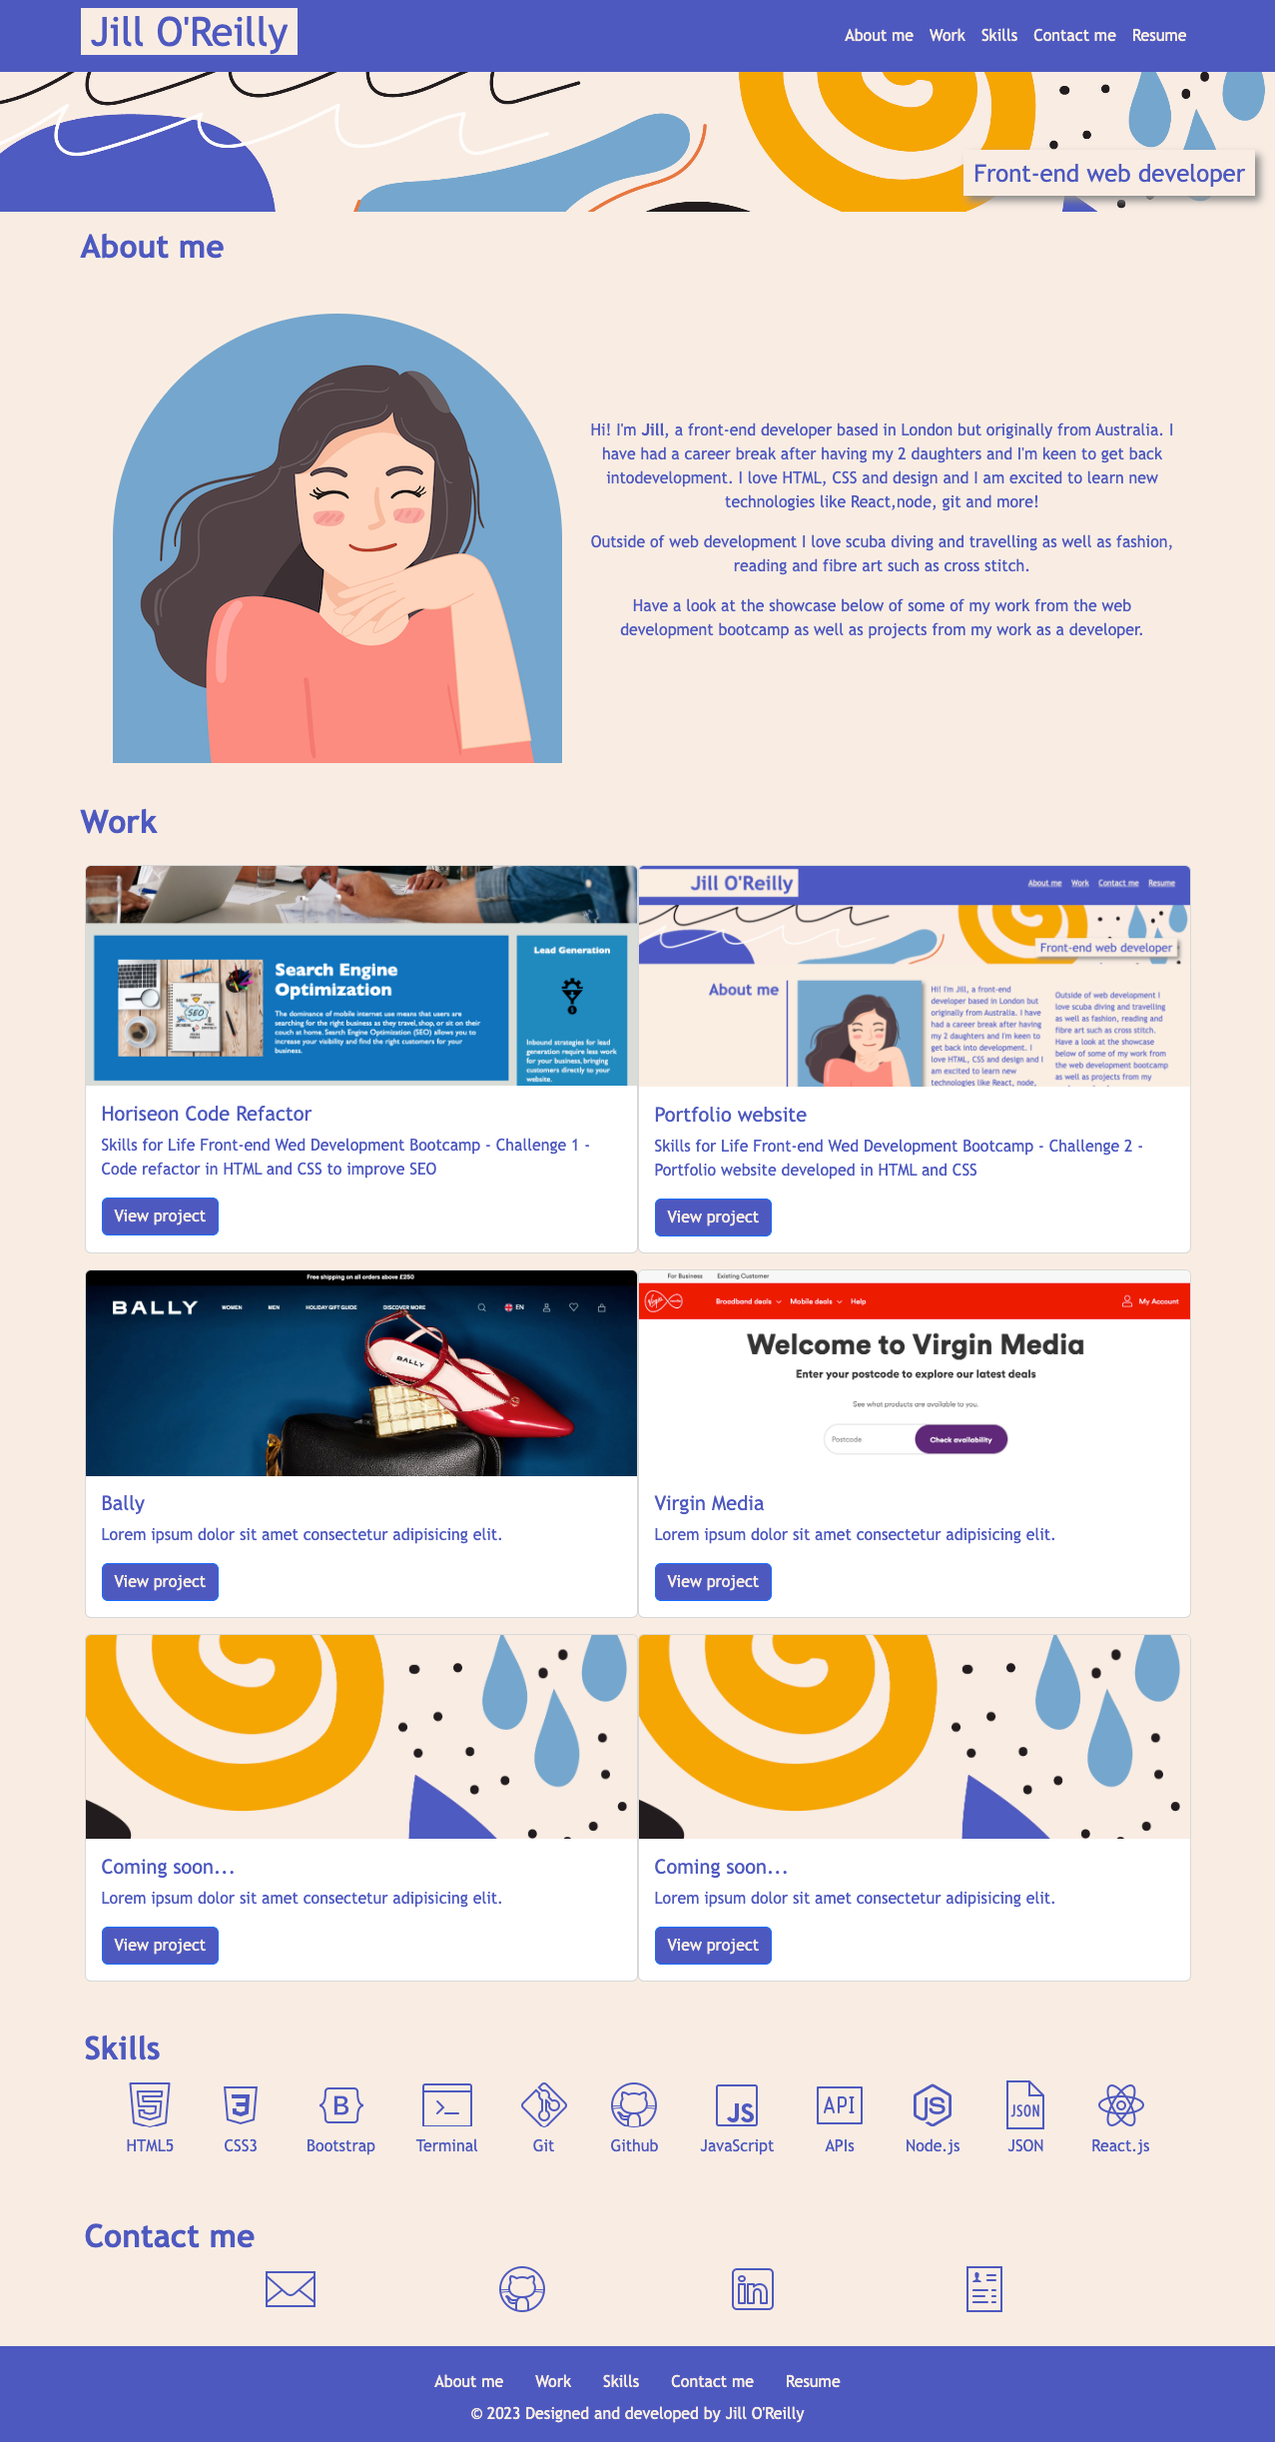
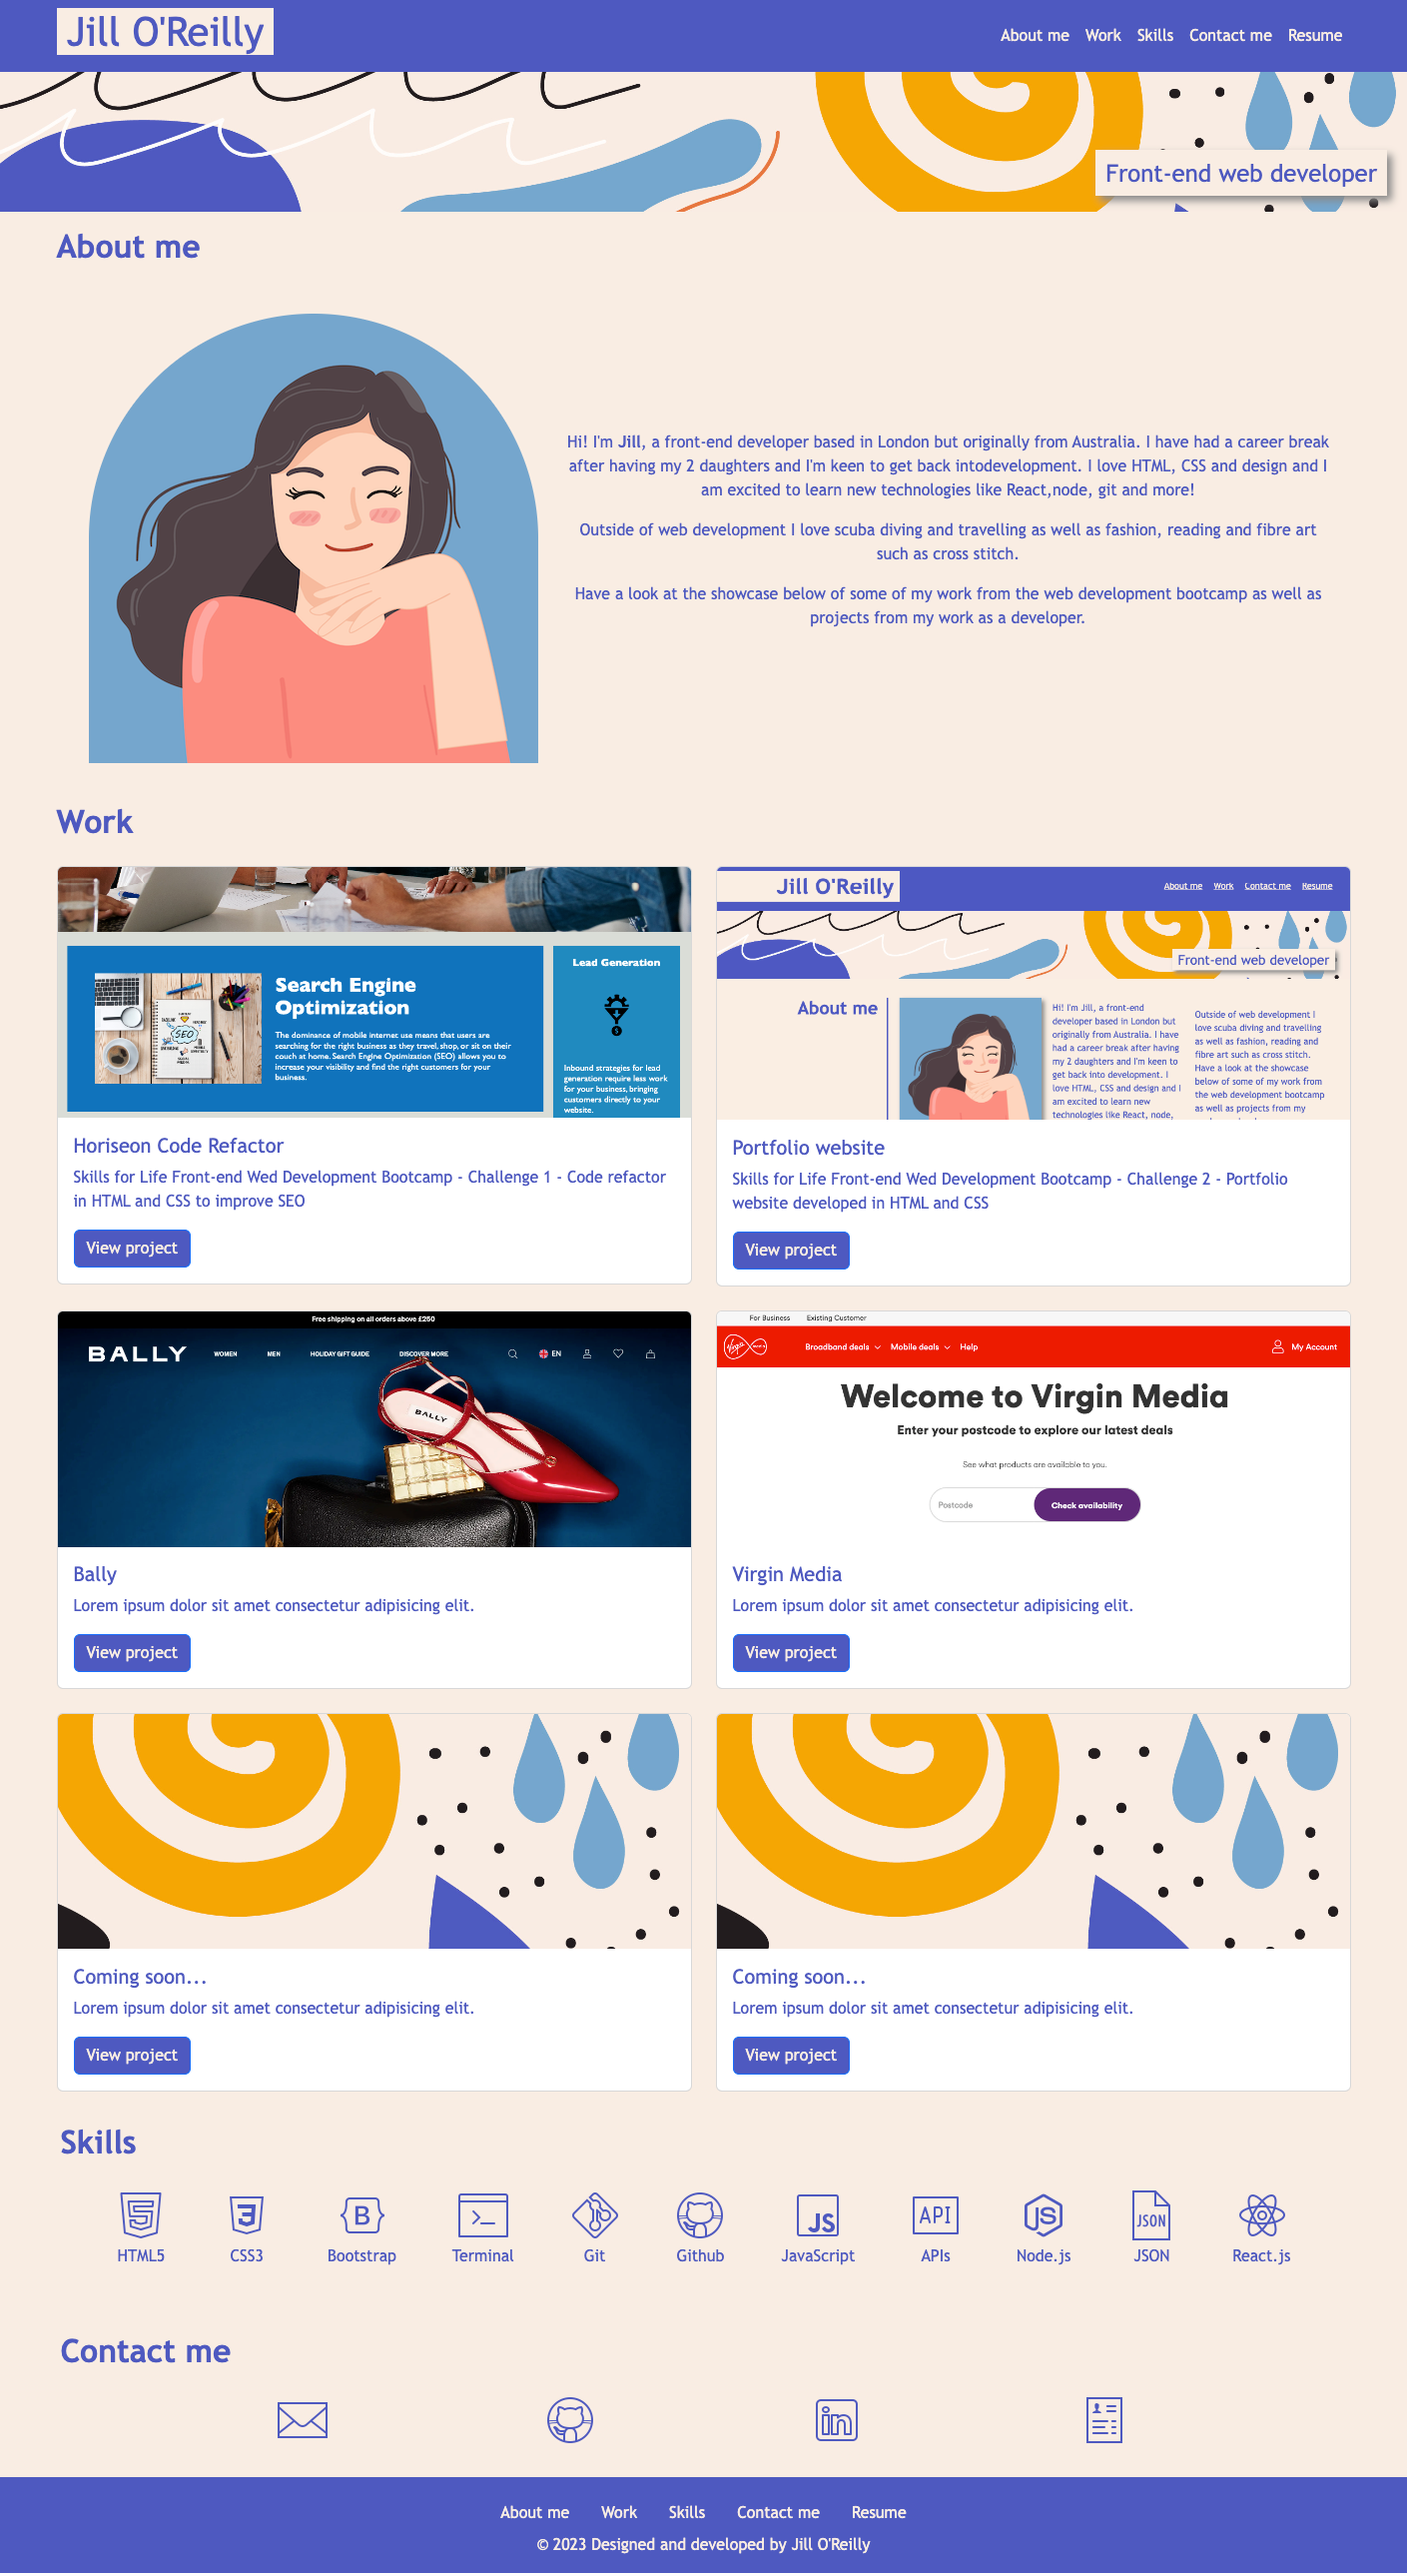
Update screenshots for README again. Adjust spacing around <h2>'s

diff --git a/index.html b/index.html
@@ -87,9 +87,9 @@
         </section>
 
         <!-- Work -->
-        <section id="work">
+        <section id="work" class="mb-3">
             <div class="container">
-                <h2 class="fw-bold">Work</h2>
+                <h2 class="fw-bold pb-3">Work</h2>
                 <div class="row gap-0 row-gap-lg-4 row-gap-md-3 row-gap-sm-2">
                     <div class="col-sm-12 col-md-6 col-lg-6">
                         <div class="card">
@@ -168,7 +168,7 @@
 
         <!-- Skills -->
         <section id="skills" class="container p-3">
-            <h2 class="fw-bold">Skills</h2>
+            <h2 class="fw-bold pb-3">Skills</h2>
             
             <div class="d-flex flex-row flex-wrap justify-content-evenly list-unstyled text-center">
                 <p class="icon-html">HTML5</p>
@@ -187,7 +187,7 @@
 
         <!-- Contact details -->
         <section id="contact" class="container p-3">
-            <h2 class="fw-bold">Contact me</h2>
+            <h2 class="fw-bold pb-3">Contact me</h2>
             <div id="contact-info" class="d-flex flex-row justify-content-evenly">
                 <p><a href="mailto:jill.l.oreilly@gmail.com"><img src="./assets/images/icons/icons8-email-50.png"
                             alt="Email me"></a></p>
